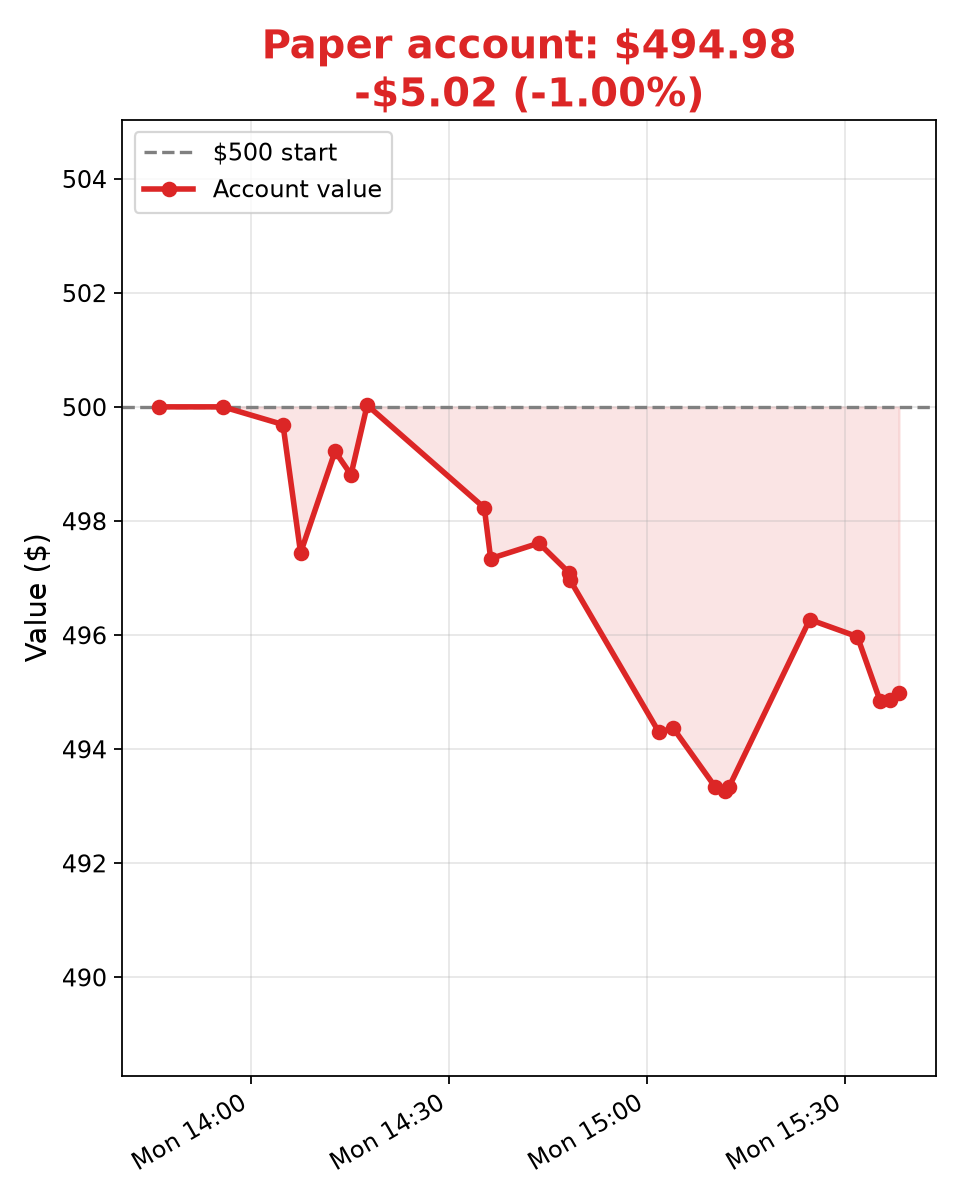
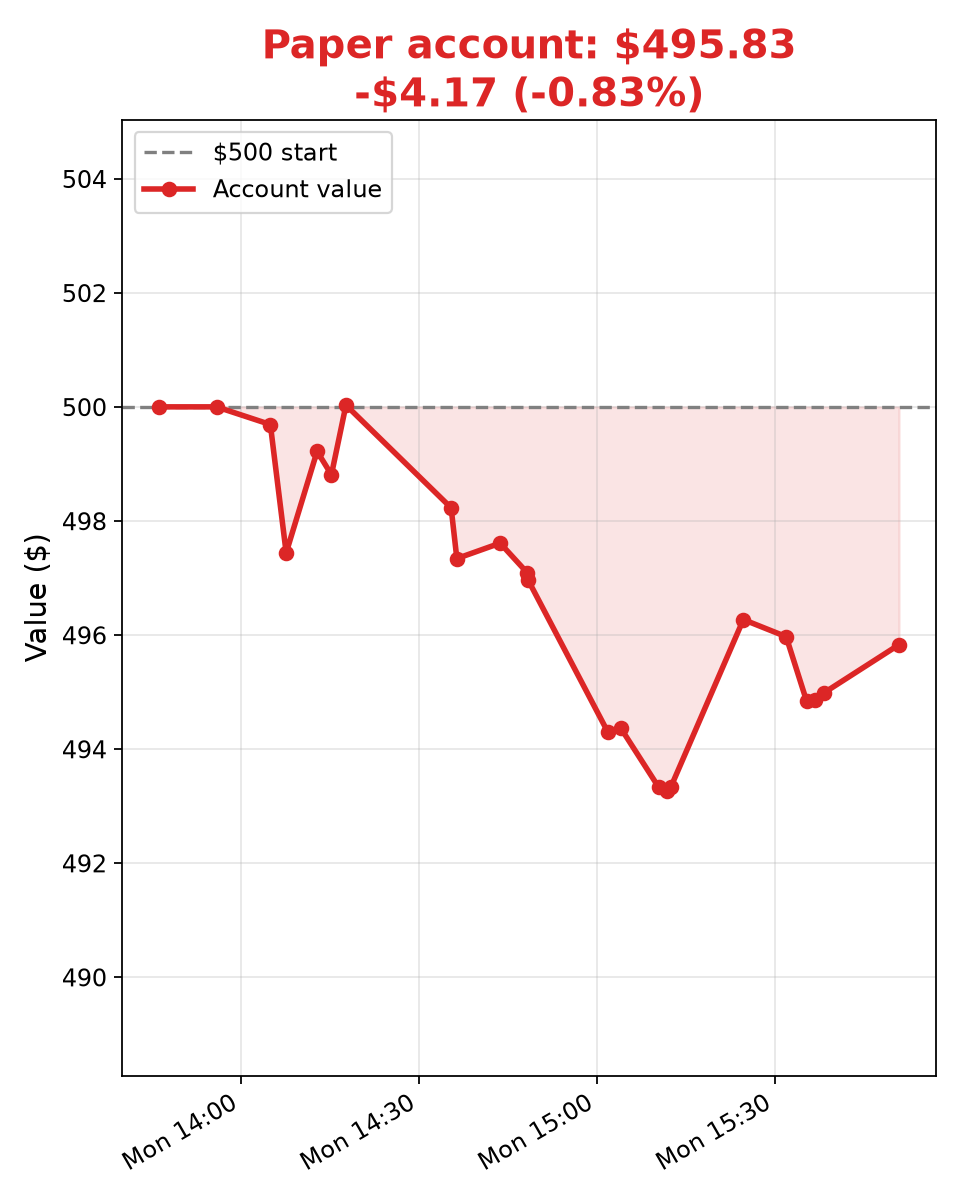
Update 2026-10-12T15:50:55Z

diff --git a/ledger.md b/ledger.md
@@ -44,3 +44,4 @@
 - 2026-10-12T15:35:19Z — total $494.84, cash $98.62 (Jr mark, no trade; FRO 58.855, DHT 25.925, ASTS 53.305 marked; no stops/targets hit)
 - 2026-10-12T15:36:45Z — total $494.86, cash $98.62 (Bot2 mark, no trade; FRO 58.883, DHT 25.95, ASTS 53.205 marked; no stops/targets hit)
 - 2026-10-12T15:38:10Z — total $494.98, cash $98.62 (Bot4 mark, no trade; FRO 58.89, DHT 25.955, ASTS 53.24 marked; no stops/targets hit)
+- 2026-10-12T15:50:54Z — total $495.83, cash $98.62 (Stock Bot mark, no trade; FRO 58.885, DHT 25.945, ASTS 53.73 marked; no stops/targets hit)
